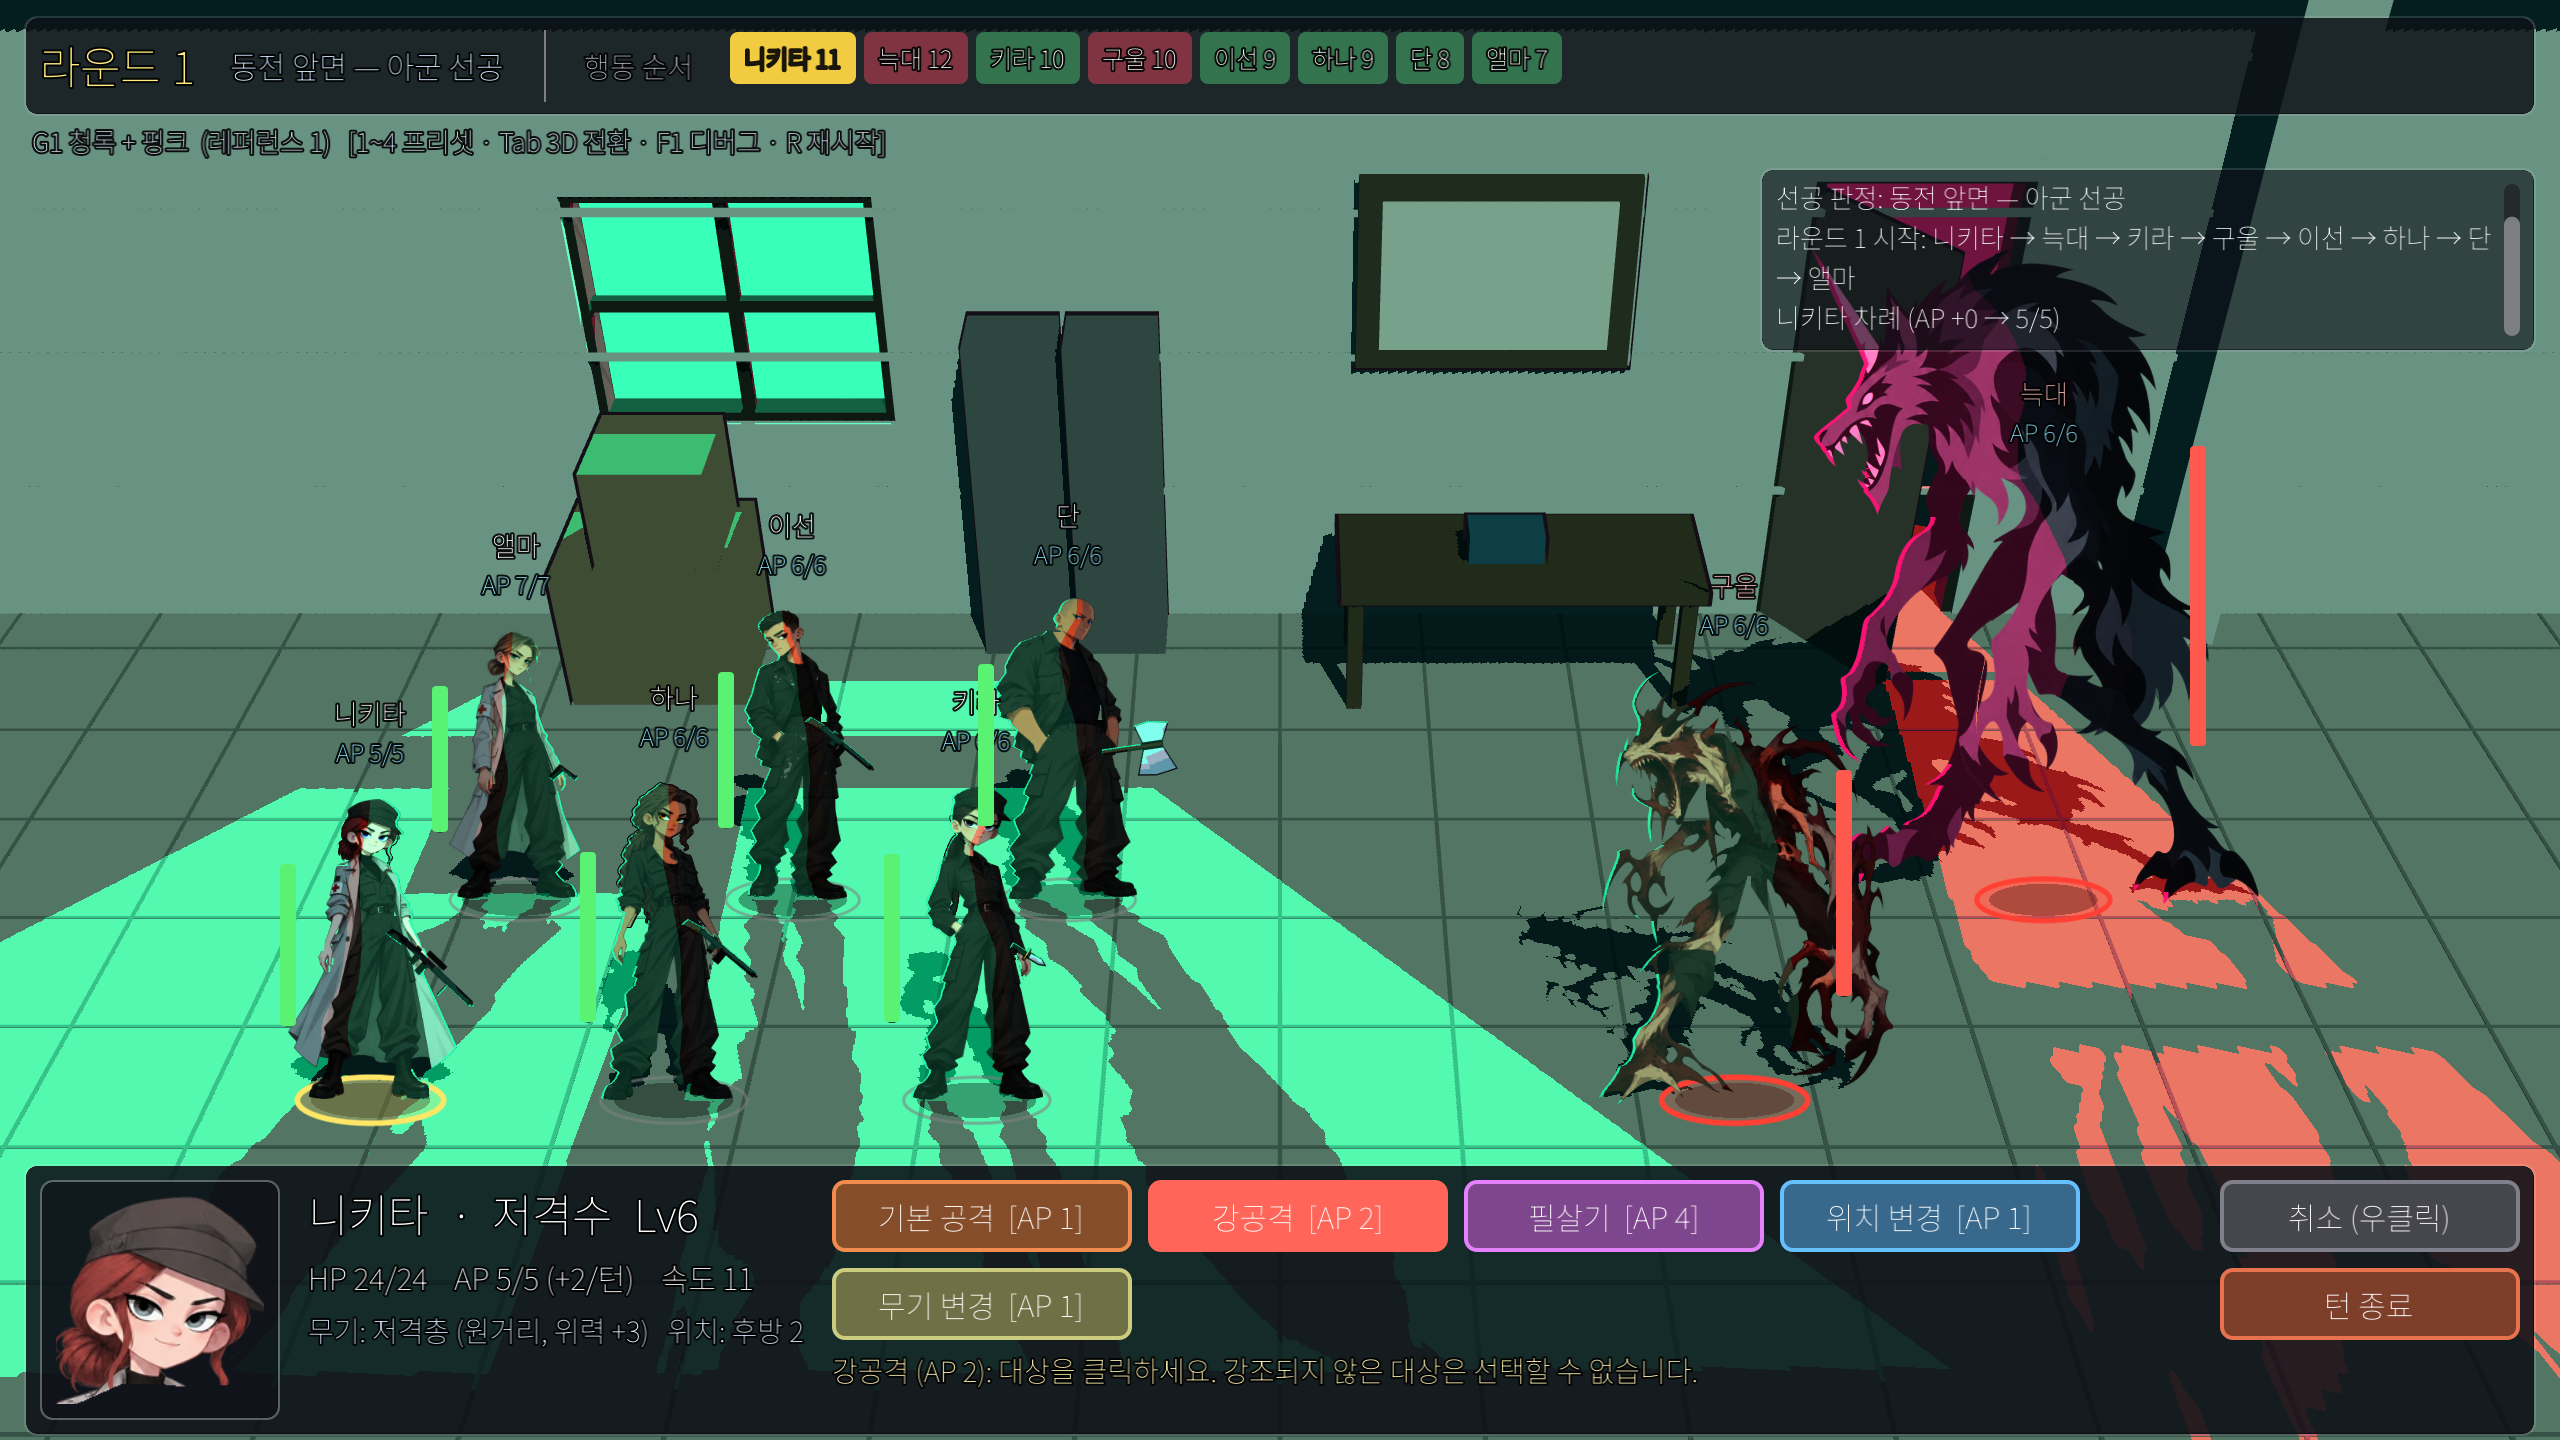
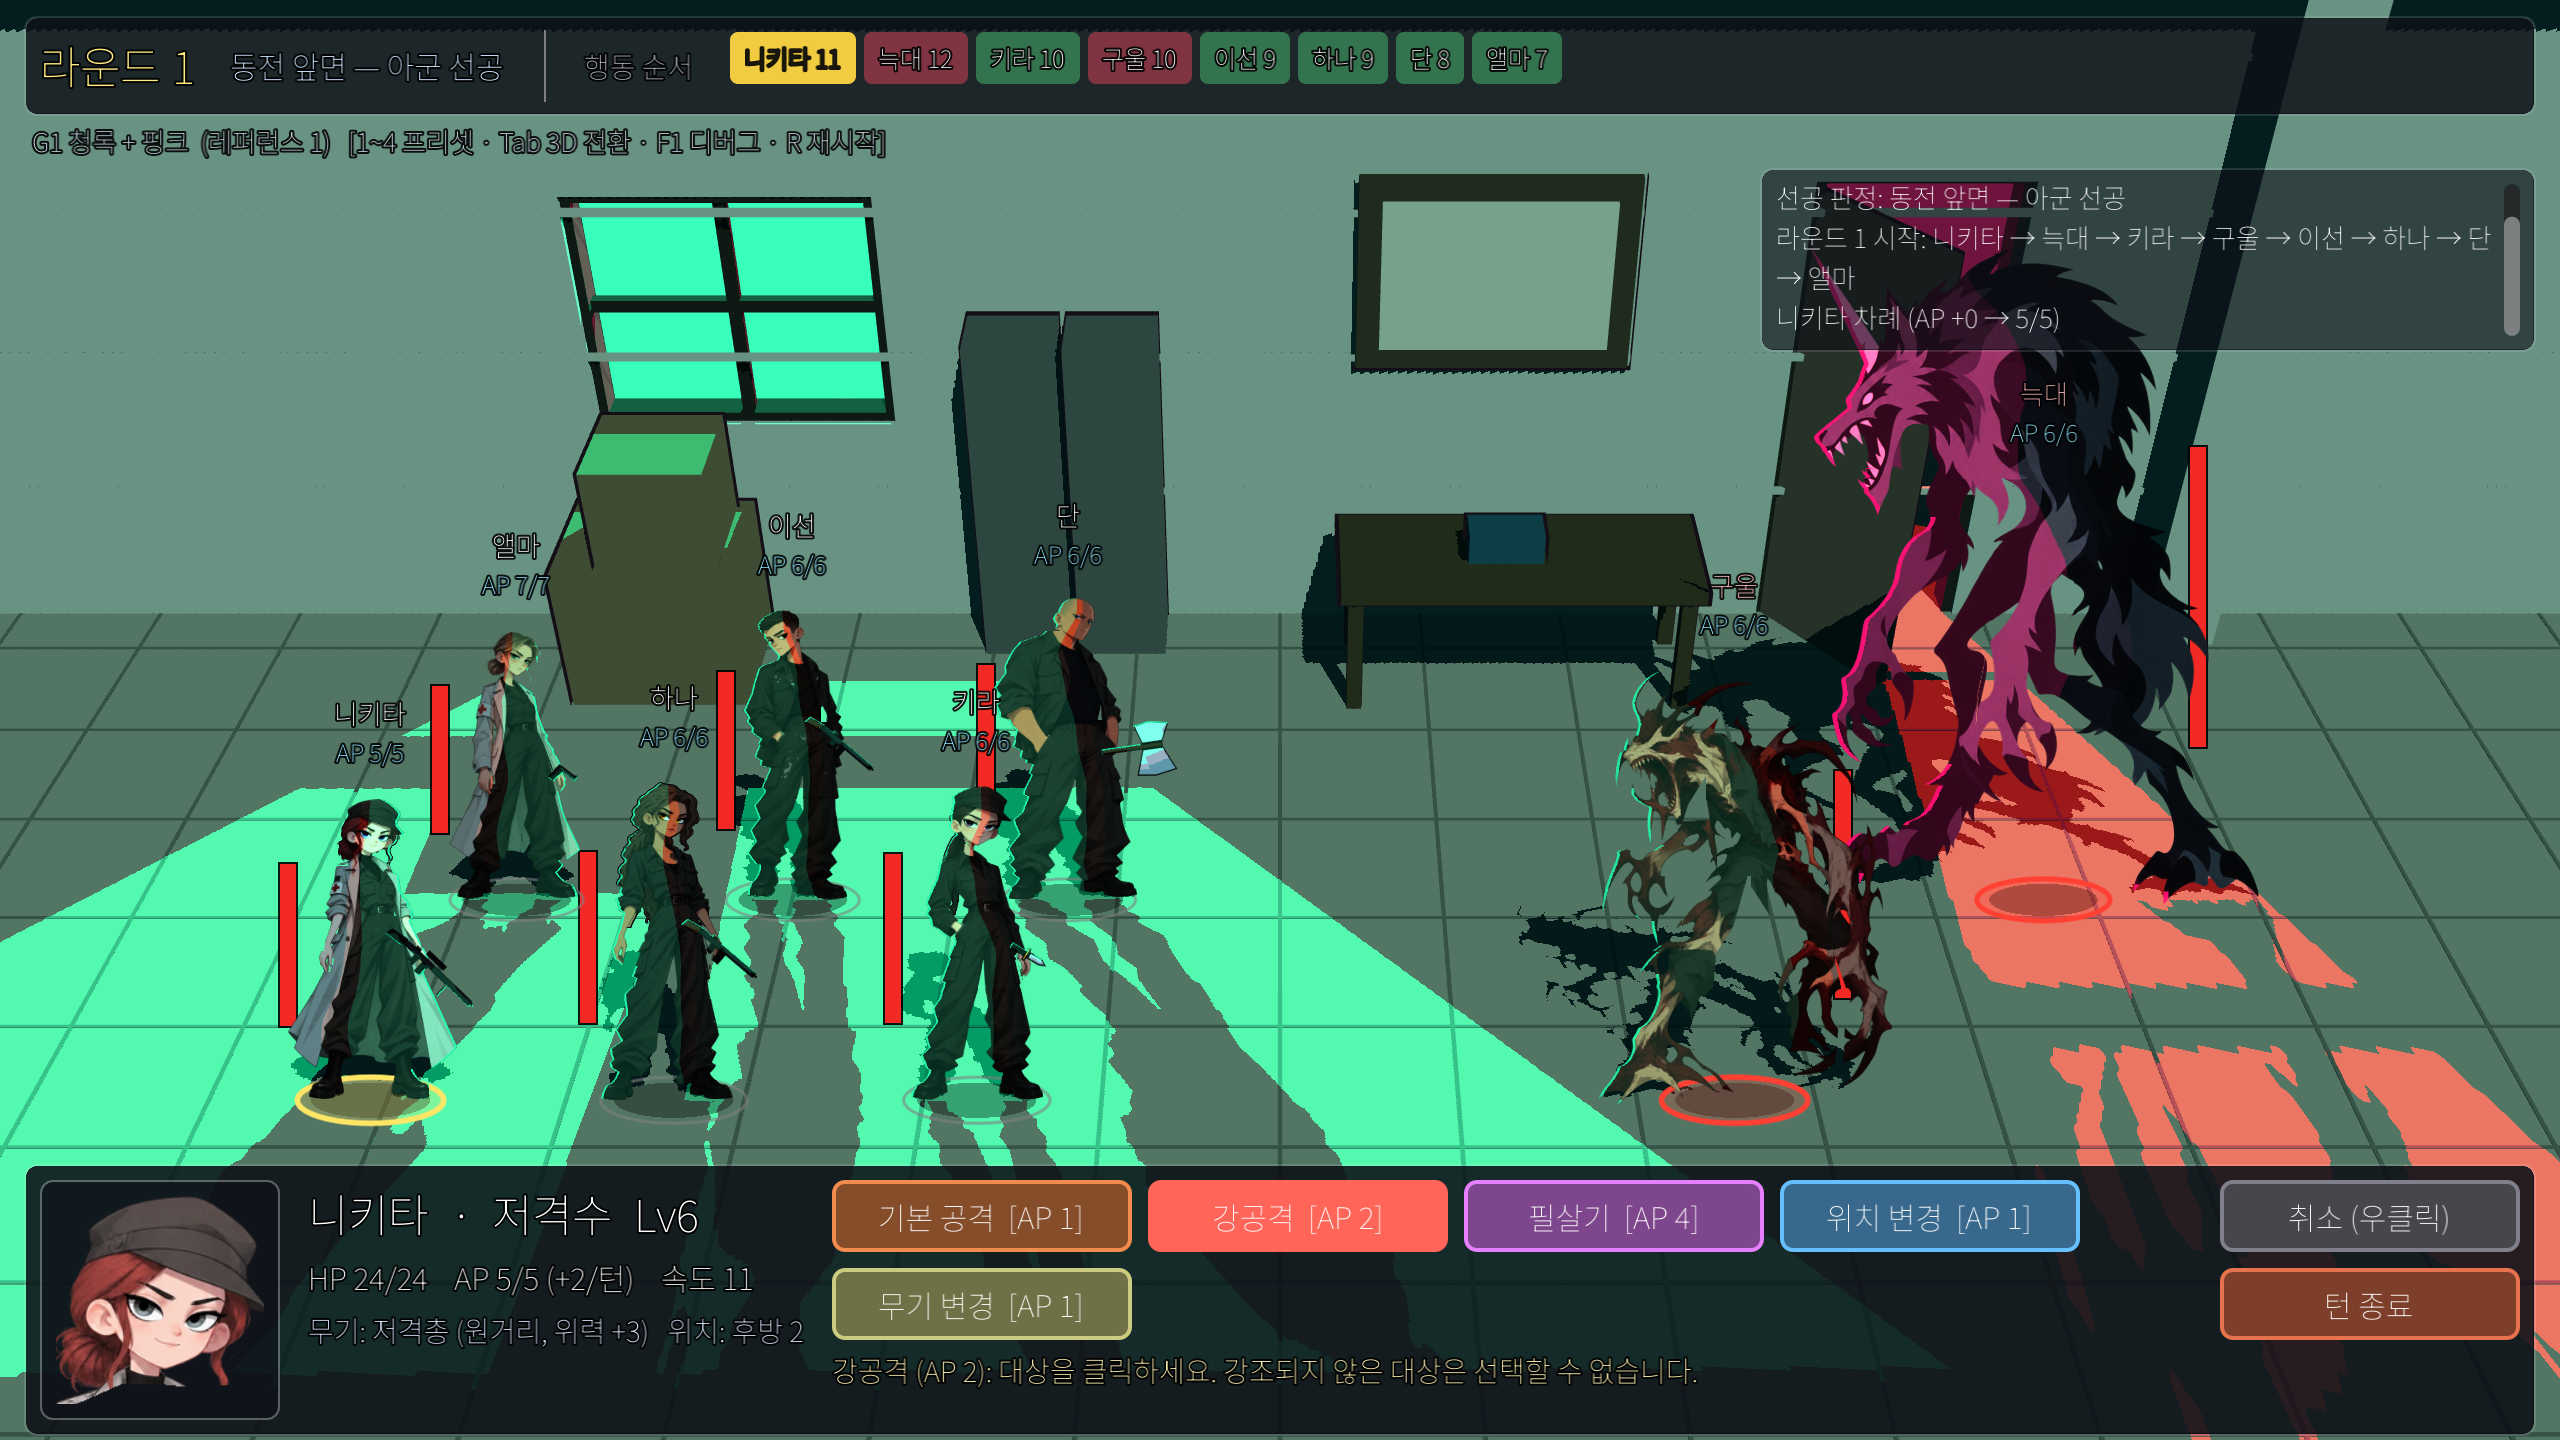
체력 바 모두 붉은색, 캐릭터를 가리지 않게 캐릭터 아래 층에 그림
- 2D 뷰가 등 뒤 세로 체력 바를 월드 안 BackBars 노드(z 2)에 직접 그림 →
  캐릭터(z 10~)·쓰러진 캐릭터(z 5)보다 아래라 바가 캐릭터를 덮지 않음
- 아군·적 모두 붉은색. HUD 의 바는 3D 비교 모드에서만 사용

Claude-Session: https://claude.ai/code/session_014aytw3hj7boqn3SZ5GP5ti

diff --git a/docs/design/00_decision_log_v1_0.md b/docs/design/00_decision_log_v1_0.md
@@ -26,7 +26,7 @@
 - 큰 몸집 규칙: 한 유닛이 같은 줄(index)의 연속한 두 열을 차지할 수 있다 (`row_span`). 살아 있는 동안 두 열 모두에 있는 것으로 보아
   전방을 막고(근접 대상), 자리 이동·교환 불가, 쓰러지면 두 칸 모두 빈다. 화면에서는 두 칸의 가운데에 선다.
   앨마 = 금갈색 올림머리·밝은 회색 롱코트(적십자 완장, 의무병), 이선 = 짧은 갈색 머리·짙은 재킷(양손 주머니), 단 = 민머리·큰 체격·소매 걷은 재킷(양손 주머니).
-- 체력 바는 **캐릭터 등 뒤의 세로 바** (아래에서 위로 참, 아군은 왼쪽·적은 오른쪽). 이름·AP 는 머리 위 유지 (2026-10-25).
+- 체력 바는 **캐릭터 등 뒤의 세로 바**, **모두 붉은색** (아래에서 위로 참, 아군은 왼쪽·적은 오른쪽). 캐릭터를 가리지 않도록 월드 안에서 모든 캐릭터보다 아래 층에 그림. 이름·AP 는 머리 위 유지 (2026-10-25).
 - 줌인 중에도 주변 캐릭터를 **투명하게 하지 않음** (전투 불능도 어둡게만, 불투명).
 - 바닥 그림자는 **캐릭터 모양** (원화 실루엣을 3D 판으로 세워 실제 광원으로 드리움). 캡슐 그림자 폐기.
 
